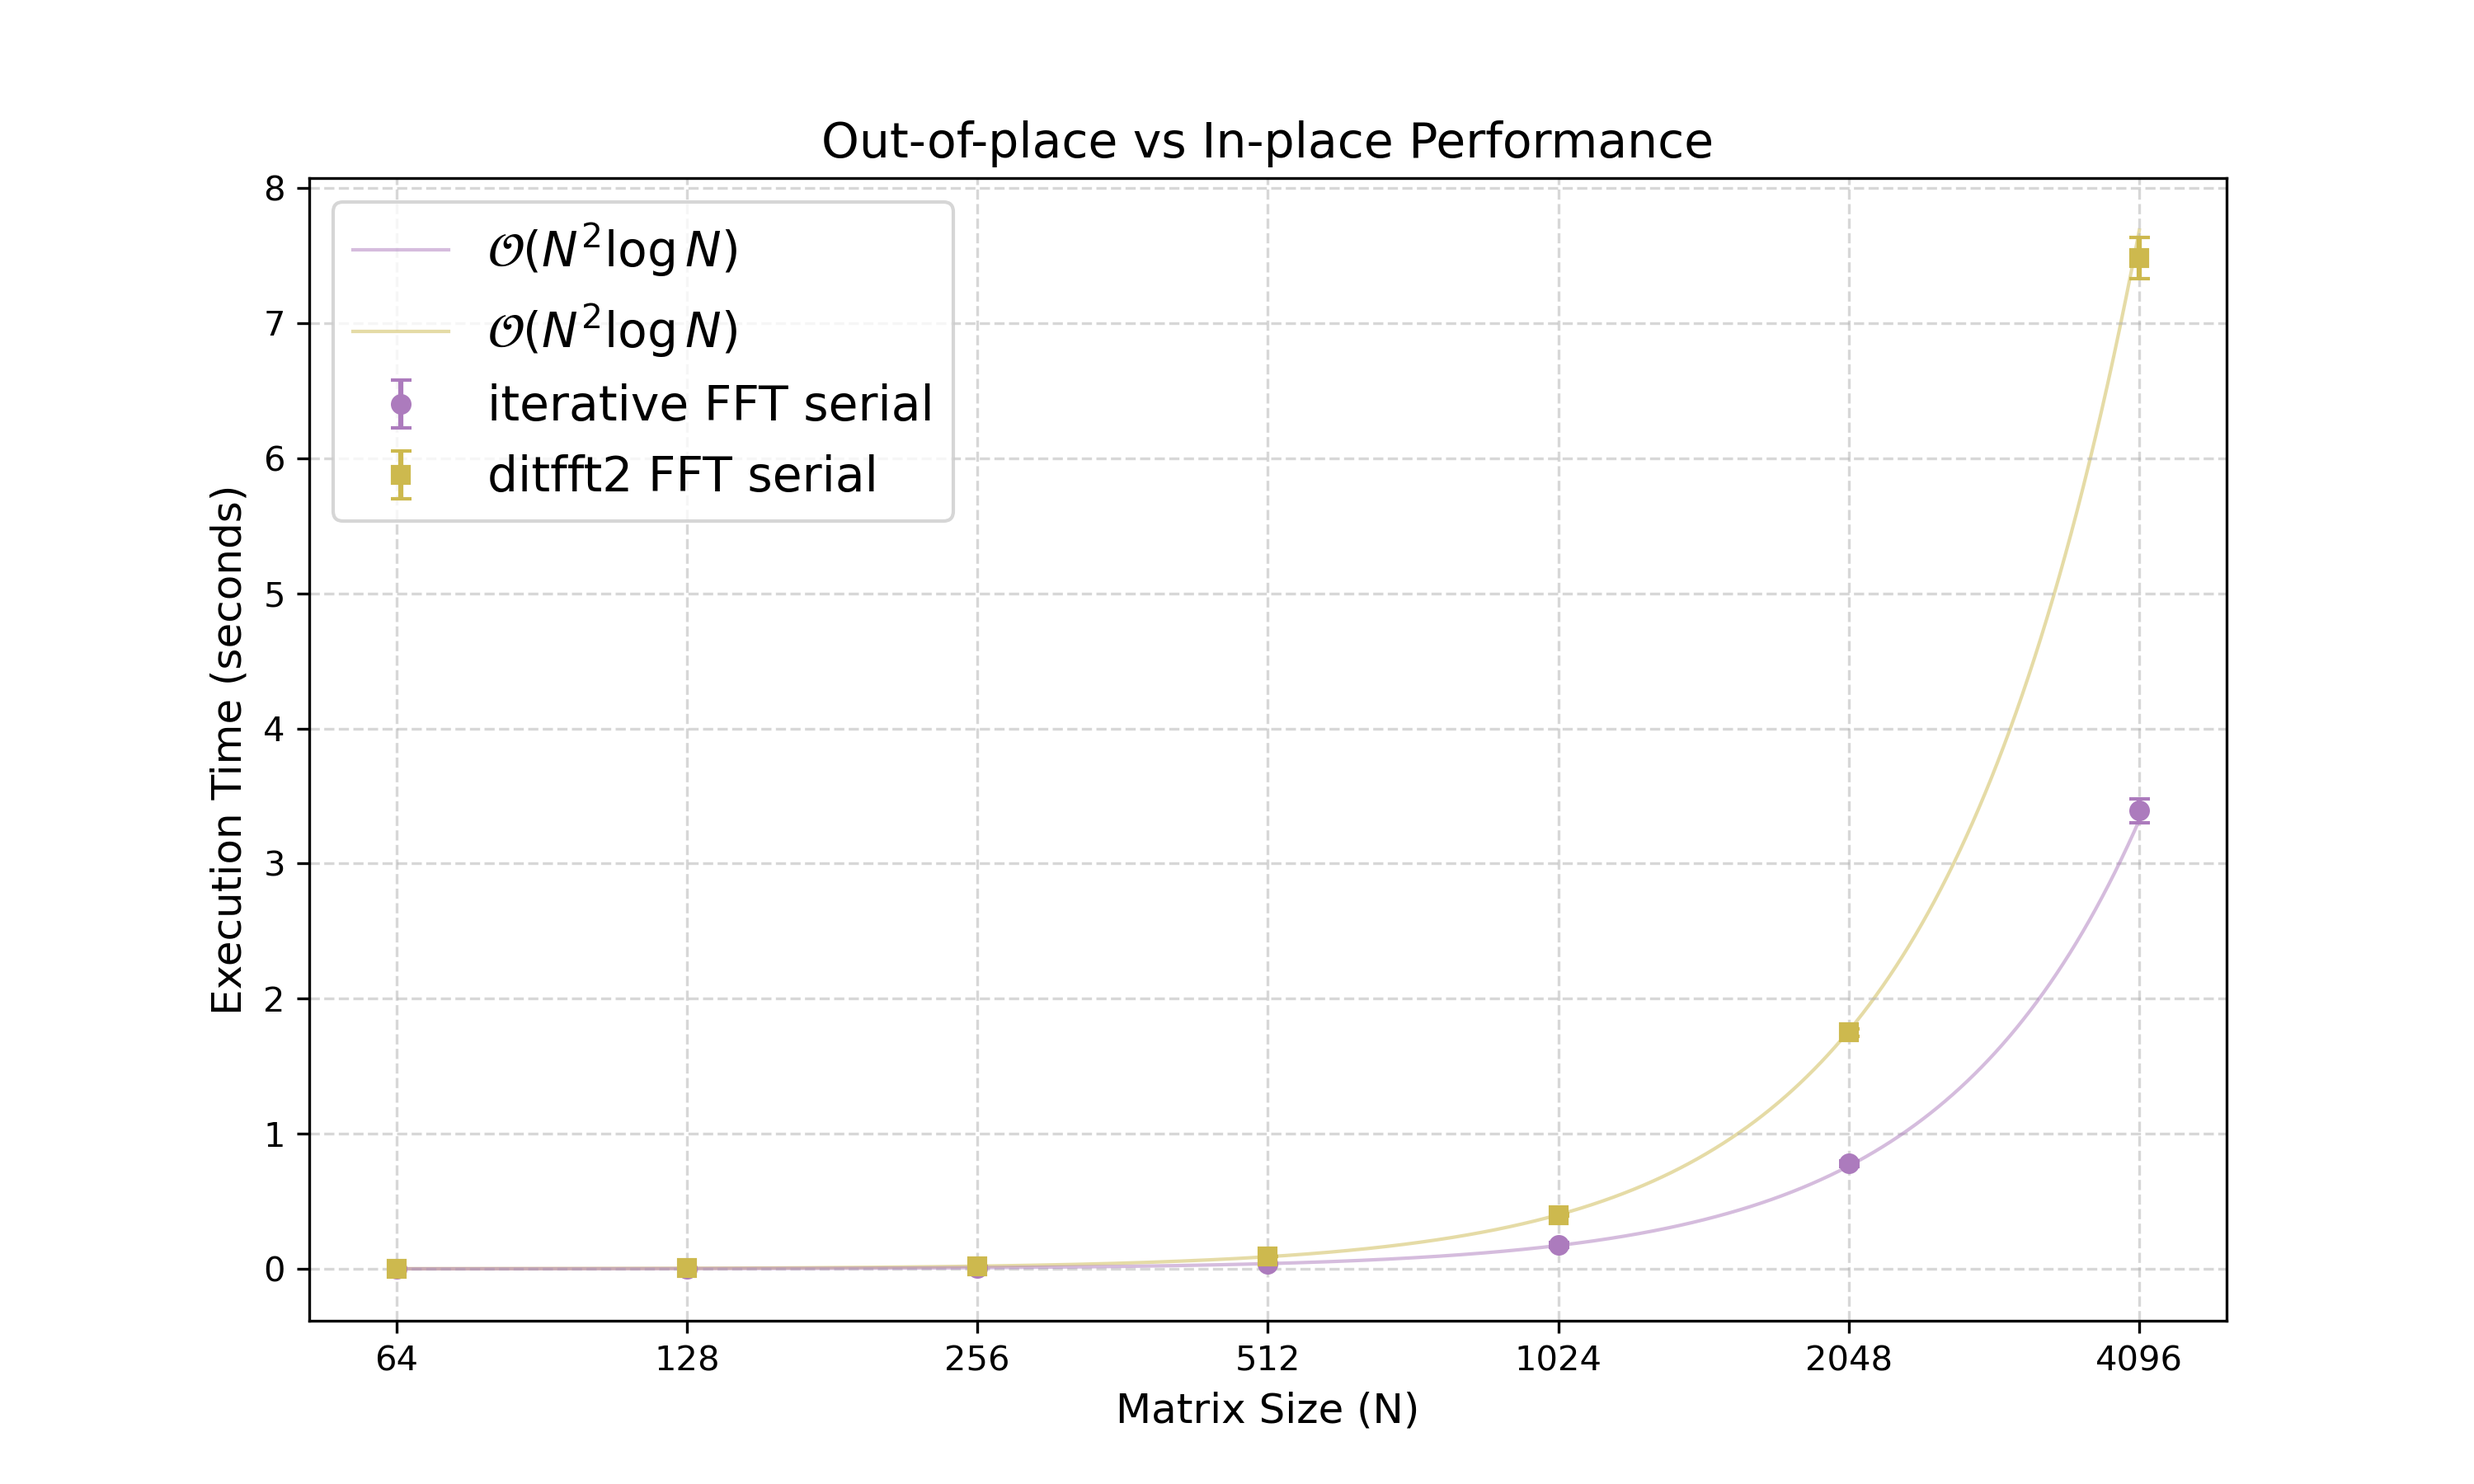
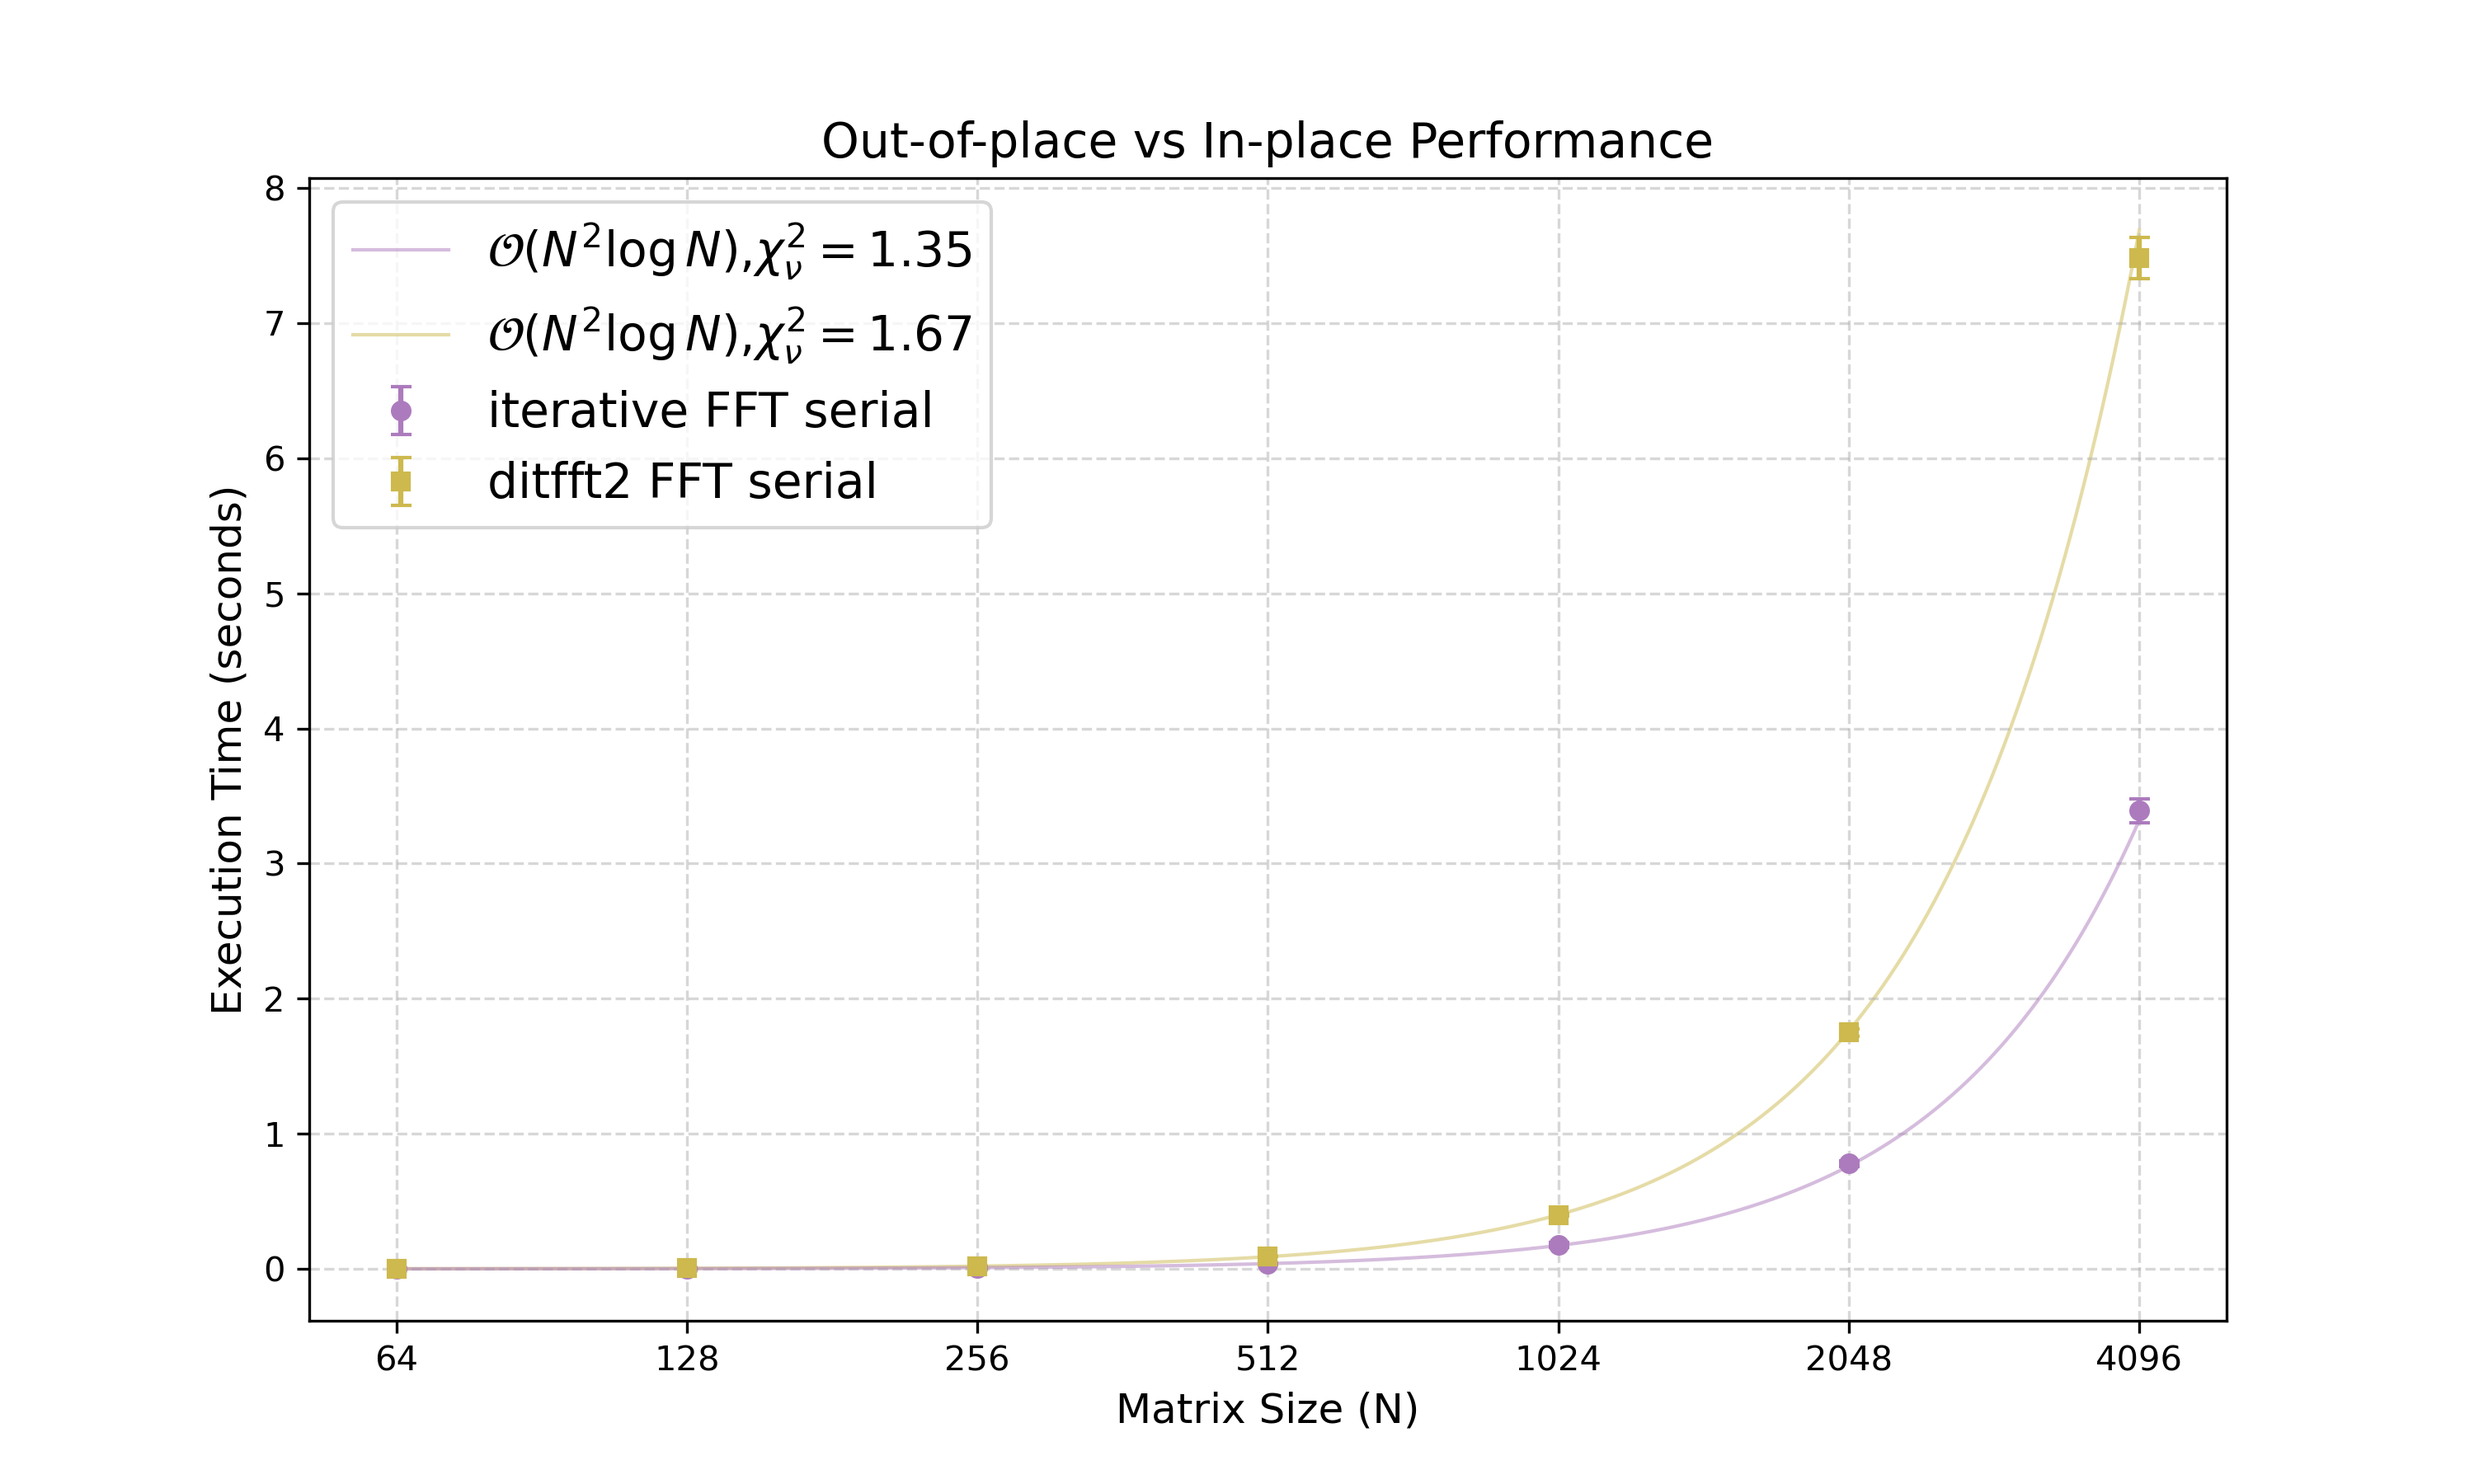
add chi2

Changed region(s): [[0.155, 0.1244, 0.403, 0.3733]]

diff --git a/plot/plt_serial.py b/plot/plt_serial.py
@@ -28,6 +28,21 @@ std_time2 = df2.groupby('N')['ExecutionTime'].std().values
 a1, _ = scipy.optimize.curve_fit(model, N, mean_time1, sigma=std_time1)
 a2, _ = scipy.optimize.curve_fit(model, N, mean_time2, sigma=std_time2)
 
+# Best-fit values
+fit1 = model(N, *a1)
+fit2 = model(N, *a2)
+
+# Chi-squared
+chi2_1 = np.sum(((mean_time1 - fit1) / std_time1)**2)
+chi2_2 = np.sum(((mean_time2 - fit2) / std_time2)**2)
+
+# Degrees of freedom
+ndof = len(N) - len(a1)   # one fitted parameter
+
+# Reduced chi-squared
+chi2_red_1 = chi2_1 / ndof
+chi2_red_2 = chi2_2 / ndof
+
 # 2. Create the visualization
 plt.figure(figsize=(10, 6))
 plt.errorbar(N, mean_time1, yerr=std_time1,
@@ -49,14 +64,14 @@ plt.plot(x, a1*x*x*np.log(x),
         color="#ac7bbd",      # Red color
         alpha=0.5,
         linewidth=1, 
-        label='$\\mathcal{O}(N^2\\log N)$',
+        label='$\\mathcal{O}(N^2\\log N)$,' f'$\\chi^2_\\nu={chi2_red_1:.2f}$',
         zorder=2)
 plt.plot(x, a2*x*x*np.log(x), 
         linestyle='-',        # Solid line
         color="#cdb94e",      # Red color
         alpha=0.5,
         linewidth=1, 
-        label='$\\mathcal{O}(N^2\\log N)$',
+        label='$\\mathcal{O}(N^2\\log N)$,' f'$\\chi^2_\\nu={chi2_red_2:.2f}$',
         zorder=1)
 
 
